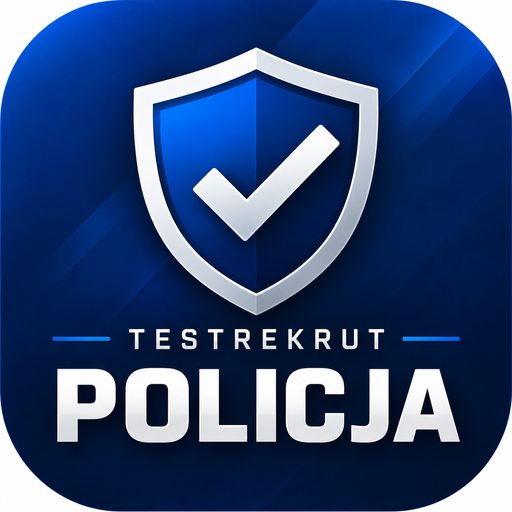
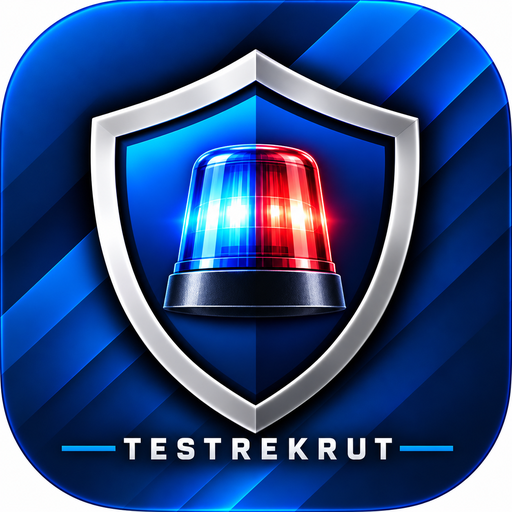
Add files via upload

diff --git a/policja/index.html b/policja/index.html
@@ -325,6 +325,23 @@ input{background:#091a2d;border-color:#2b4c69}input:focus{border-color:#55b5ff;b
 .featurebar{background:rgba(6,19,33,.94);border-color:#28465f}.feature{border-color:#28465f}.feature .ico{color:#55b5ff}.footer b{color:#55b5ff}
 @media(max-width:520px){.brandicon.policebadge{width:46px;height:46px}.brand{font-size:21px}}
 
+
+/* ===== HEADER ICON V2 ===== */
+.brandicon.police-header-icon{
+  width:76px!important;
+  height:76px!important;
+  flex:0 0 76px!important;
+  border-radius:18px!important;
+  object-fit:cover!important;
+  border:0!important;
+  box-shadow:0 8px 28px rgba(0,0,0,.42),0 0 0 1px rgba(62,167,255,.22)!important;
+}
+@media(max-width:800px){
+  .brandicon.police-header-icon{width:58px!important;height:58px!important;flex-basis:58px!important;border-radius:14px!important}
+}
+@media(max-width:520px){
+  .brandicon.police-header-icon{width:52px!important;height:52px!important;flex-basis:52px!important;border-radius:13px!important}
+}
 </style>
 
 <style id="police-base-chip-blue">
@@ -335,7 +352,7 @@ input{background:#091a2d;border-color:#2b4c69}input:focus{border-color:#55b5ff;b
 <body><div class="wrap">
 <div class="top">
   <div class="brandbox">
-    <div class="brandicon policebadge" aria-label="TESTREKRUT POLICJA"><span>POLICJA</span><i></i></div>
+    <img class="brandicon police-header-icon" src="icon-header-policja.png" alt="TESTREKRUT Policja">
     <div><div class="brand">TEST<span class="green">REKRUT</span></div><div class="subtitle">Testy wiedzy • POLICJA</div></div>
   </div>
   <div class="topchips">
@@ -430,6 +447,8 @@ async function initFirebase() {
 }
 
 async function verifyAccessCode(code, uid) {
+  // Policja korzysta z kolekcji accessCodes z oznaczeniem product: "policja".
+
   if (!code || !uid) return false;
   try {
     const normalized = code.trim().toUpperCase();
@@ -469,7 +488,7 @@ async function activateAccess() {
     }
     if (data.product !== "policja") {
       input.disabled = false;
-      msg.textContent = "❌ Ten kod nie jest kodem dostępu do testu Policji.";
+      msg.textContent = "❌ Ten kod nie jest przeznaczony do testu Policji.";
       return;
     }
     if (data.userId && data.userId !== currentUser.uid) {
@@ -692,7 +711,7 @@ initFirebase();
 
 if ("serviceWorker" in navigator) {
   window.addEventListener("load", () => {
-    navigator.serviceWorker.register("./sw.js").catch(err => {
+    navigator.serviceWorker.register("./sw.js?v=2").catch(err => {
       console.error("Service Worker registration failed:", err);
     });
   });

diff --git a/policja/sw.js b/policja/sw.js
@@ -1,10 +1,11 @@
-const CACHE = 'testrekrut-policja-v1';
+const CACHE = 'testrekrut-policja-v2';
 const APP_SHELL = [
   './',
   './index.html',
   './manifest.webmanifest',
   './icon-180.png',
   './icon-512.png',
+  './icon-header-policja.png',
   './policja-logo.png'
 ];
 
@@ -25,10 +26,8 @@ self.addEventListener('activate', event => {
 self.addEventListener('fetch', event => {
   const request = event.request;
   if (request.method !== 'GET') return;
-
   const url = new URL(request.url);
 
-  // Navigation: always prefer the live version, fall back to cached app shell offline.
   if (request.mode === 'navigate') {
     event.respondWith(
       fetch(request).then(response => {
@@ -40,7 +39,6 @@ self.addEventListener('fetch', event => {
     return;
   }
 
-  // Only cache local app assets. Firebase/CDN requests stay network-based.
   if (url.origin === self.location.origin && url.pathname.startsWith('/policja/')) {
     event.respondWith(
       caches.match(request).then(cached => cached || fetch(request).then(response => {
